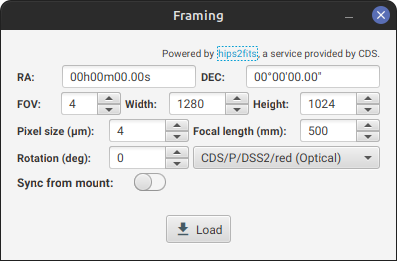
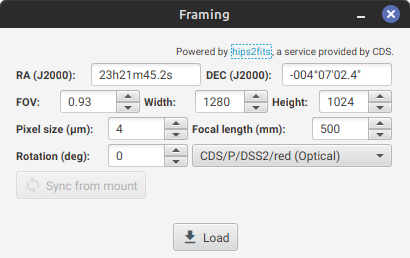
Update

diff --git a/desktop/src/main/kotlin/nebulosa/desktop/logic/image/ImageManager.kt b/desktop/src/main/kotlin/nebulosa/desktop/logic/image/ImageManager.kt
@@ -63,7 +63,6 @@ class ImageManager(private val view: ImageView) : Closeable {
     @Volatile private var imageStretcherView: ImageStretcherView? = null
     @Volatile private var fitsHeaderView: FitsHeaderView? = null
     @Volatile private var scnrView: SCNRView? = null
-    @Volatile private var annotationEnabled = false
     @Volatile private var annotation: Annotation? = null
 
     val mountProperty
@@ -116,8 +115,9 @@ class ImageManager(private val view: ImageView) : Closeable {
             calibration.set(if (event is PlateSolvingSolved) event.calibration else null)
 
             annotation?.also(view::remove)
+            annotation = null
 
-            if (calibration.get() != null && annotationEnabled) {
+            if (calibration.get() != null && view.annotationEnabled) {
                 annotation = Annotation(calibration.get())
                 view.addFirst(annotation!!)
 
@@ -255,9 +255,7 @@ class ImageManager(private val view: ImageView) : Closeable {
     fun toggleAnnotation() {
         val calibration = calibration.get() ?: return
 
-        annotationEnabled = !annotationEnabled
-
-        if (annotationEnabled) {
+        if (view.annotationEnabled) {
             if (annotation == null) {
                 systemExecutorService.submit {
                     try {

diff --git a/nebulosa-guiding-local/src/test/kotlin/StarTest.kt b/nebulosa-guiding-local/src/test/kotlin/StarTest.kt
@@ -53,8 +53,7 @@ class StarTest : StringSpec() {
         }
         "unfocused star" {
             with(Star(303f, 177f)) {
-                find(fits2, 15f)
-                    .shouldBeTrue()
+                find(fits2, 15f).shouldBeTrue()
 
                 mass shouldBe (1260.0212f plusOrMinus 2e-4f)
                 snr shouldBe (17.8989f plusOrMinus 1e-4f)
@@ -65,8 +64,7 @@ class StarTest : StringSpec() {
             }
 
             with(Star(827f, 699f)) {
-                find(fits2, 15f)
-                    .shouldBeFalse()
+                find(fits2, 15f).shouldBeFalse()
 
                 mass shouldBeExactly 0f
                 snr shouldBeExactly 0f

diff --git a/desktop/src/main/kotlin/nebulosa/desktop/gui/image/ImageWindow.kt b/desktop/src/main/kotlin/nebulosa/desktop/gui/image/ImageWindow.kt
@@ -151,11 +151,11 @@ class ImageWindow(override val camera: Camera? = null) : AbstractWindow("Image",
             scnrMenuItem.isDisable = !value
         }
 
-    override var crosshairEnabled
+    override val crosshairEnabled
         get() = crosshairCheckMenuItem.isSelected
-        set(value) {
-            crosshairCheckMenuItem.isSelected = value
-        }
+
+    override val annotationEnabled
+        get() = annotateCheckMenuItem.isSelected
 
     @FXML
     private fun save() {

diff --git a/desktop/src/main/kotlin/nebulosa/desktop/view/image/ImageView.kt b/desktop/src/main/kotlin/nebulosa/desktop/view/image/ImageView.kt
@@ -46,7 +46,9 @@ interface ImageView : View, Iterable<Drawable> {
 
     val scnrAmount: Float
 
-    var crosshairEnabled: Boolean
+    val crosshairEnabled: Boolean
+
+    val annotationEnabled: Boolean
 
     val image
         get() = transformedImage ?: originalImage

diff --git a/desktop/src/main/kotlin/nebulosa/desktop/logic/atlas/AtlasManager.kt b/desktop/src/main/kotlin/nebulosa/desktop/logic/atlas/AtlasManager.kt
@@ -527,6 +527,7 @@ class AtlasManager(@Autowired internal val view: AtlasView) : Closeable {
     }
 
     fun frame(ra: Angle, dec: Angle) {
+        framingView.show(bringToFront = true)
         framingView.load(ra, dec)
     }
 

diff --git a/desktop/README.md b/desktop/README.md
@@ -26,6 +26,10 @@ The complete integrated solution for all of your astronomical imaging needs.
 
 ![](atlas.png)
 
+## Image Preview
+
+![](image.png)
+
 ## Plate Solver
 
 ![](platesolver.png)
